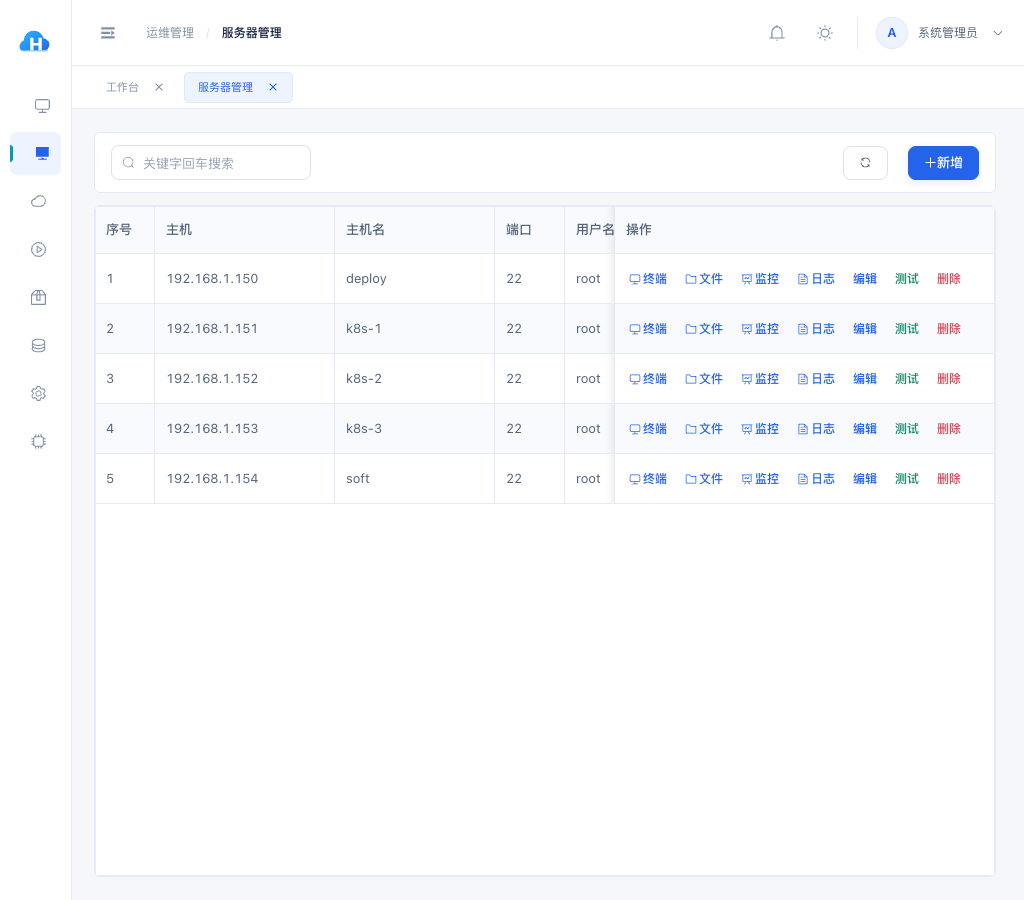
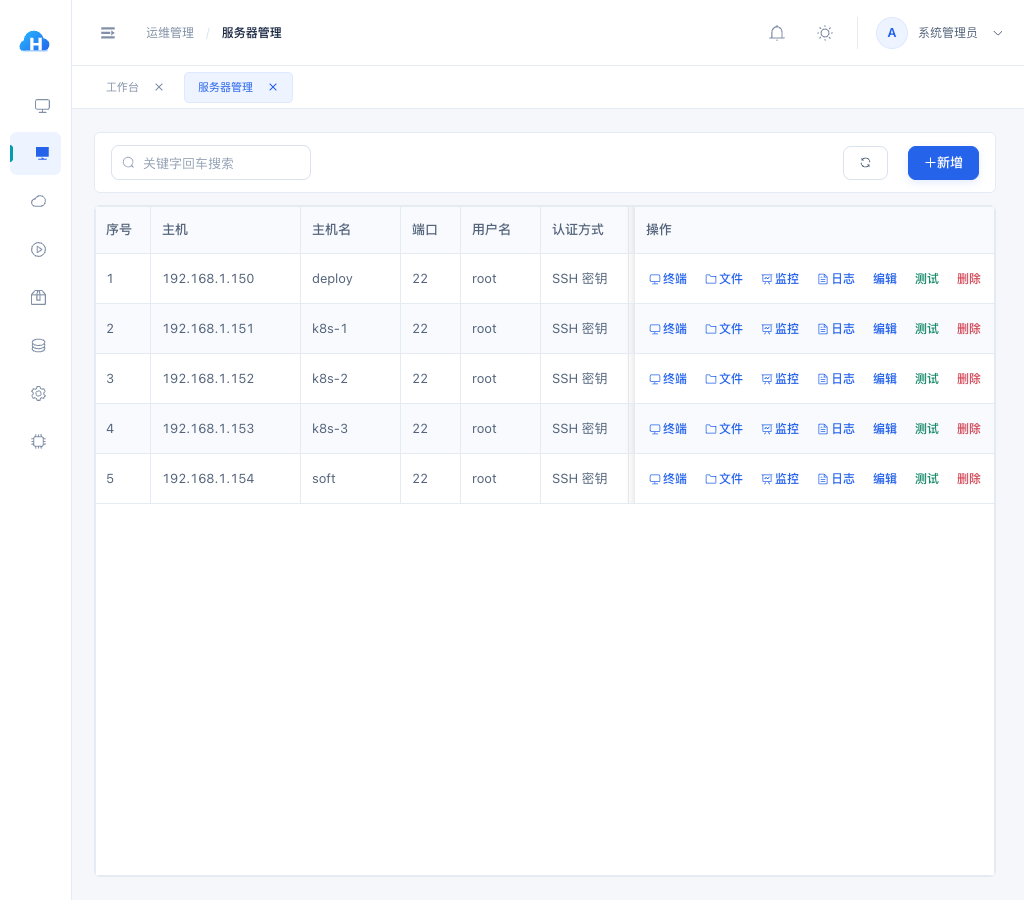
Update server layout evidence for complete desktop column visibility

diff --git a/output/server-management-20261015/README.md b/output/server-management-20261015/README.md
@@ -1,14 +1,14 @@
 # 服务器管理布局与日志收集移除
 
-已部署代码：`c5df1be`，目标：`192.168.1.150:8800`。
+已部署代码：`136e577`，目标：`192.168.1.150:8800`。
 
-- 主机、主机名共同分配剩余宽度；时间列固定 190px，操作列固定 380px。七个按钮单行排列，窄屏保留操作列并在表格内横向滚动，长名称省略显示并支持悬浮查看。
+- 主机、主机名共同分配剩余宽度；时间列固定 168px，操作列固定 360px。1440px 及以上宽度完整展示所有列；七个按钮单行排列，窄屏保留操作列并在表格内横向滚动，长名称省略显示并支持悬浮查看。
 - 删除日志收集菜单、工作台入口、路由、页面、前端 API、后台接口、后台服务、模型与自动建表注册、专属测试和使用文档。历史数据库记录与已有压缩包保留；服务器操作日志和流水线日志保留。
 - 前端 TypeScript 检查和生产构建通过；Go 的 cmd/server、handler、service、repository、web 包检查通过。本地测试未提供 PostgreSQL 测试 DSN，相关集成用例按原规则跳过。
 - 在服务器上编译候选程序，使用生产数据库备份恢复到独立 PostgreSQL 14，启动候选程序并验证健康、移除的接口 404、原有任务/应用/日志收集历史数量不变，再更新 systemd 服务。
 - 线上 78 个前端文件与本地构建逐字节一致。浏览器验证 2048、1440、1280、1024 四种宽度的五台真实服务器：每行七个按钮完整且不换行，没有页面异常或业务写请求。预览另以长主机名、长用户名验证省略展示。
-- 原程序、配置和数据库备份：`/opt/df-build-server/backups/devops-c5df1be-20261015T102914`。Jenkins 继续保持 inactive / disabled。
+- 原程序、配置和数据库备份：`/opt/df-build-server/backups/devops-136e577-20261015T103136`。Jenkins 继续保持 inactive / disabled。
 
 验证只读取页面与接口，没有点击连接测试、打开 SSH/SFTP、执行构建或滚动更新。
 
-[宽屏](servers-2048.png) · [窄屏](servers-1024.png) · [线上验证](live-verification.json) · [资源与接口验证](deployment-verification.json)
+[宽屏](servers-2048.png) · [标准桌面](servers-1440.png) · [窄屏](servers-1024.png) · [线上验证](live-verification.json) · [资源与接口验证](deployment-verification.json)
